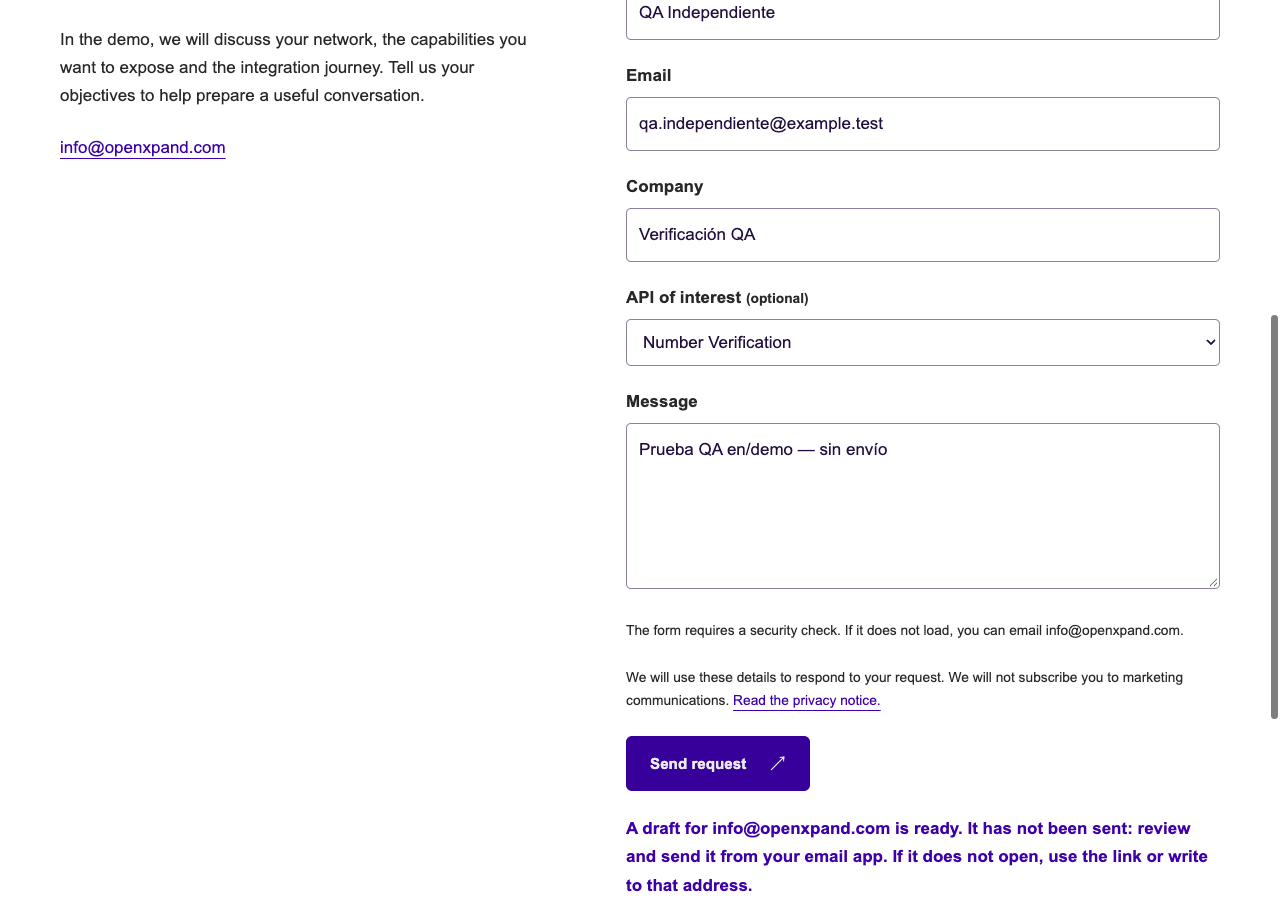
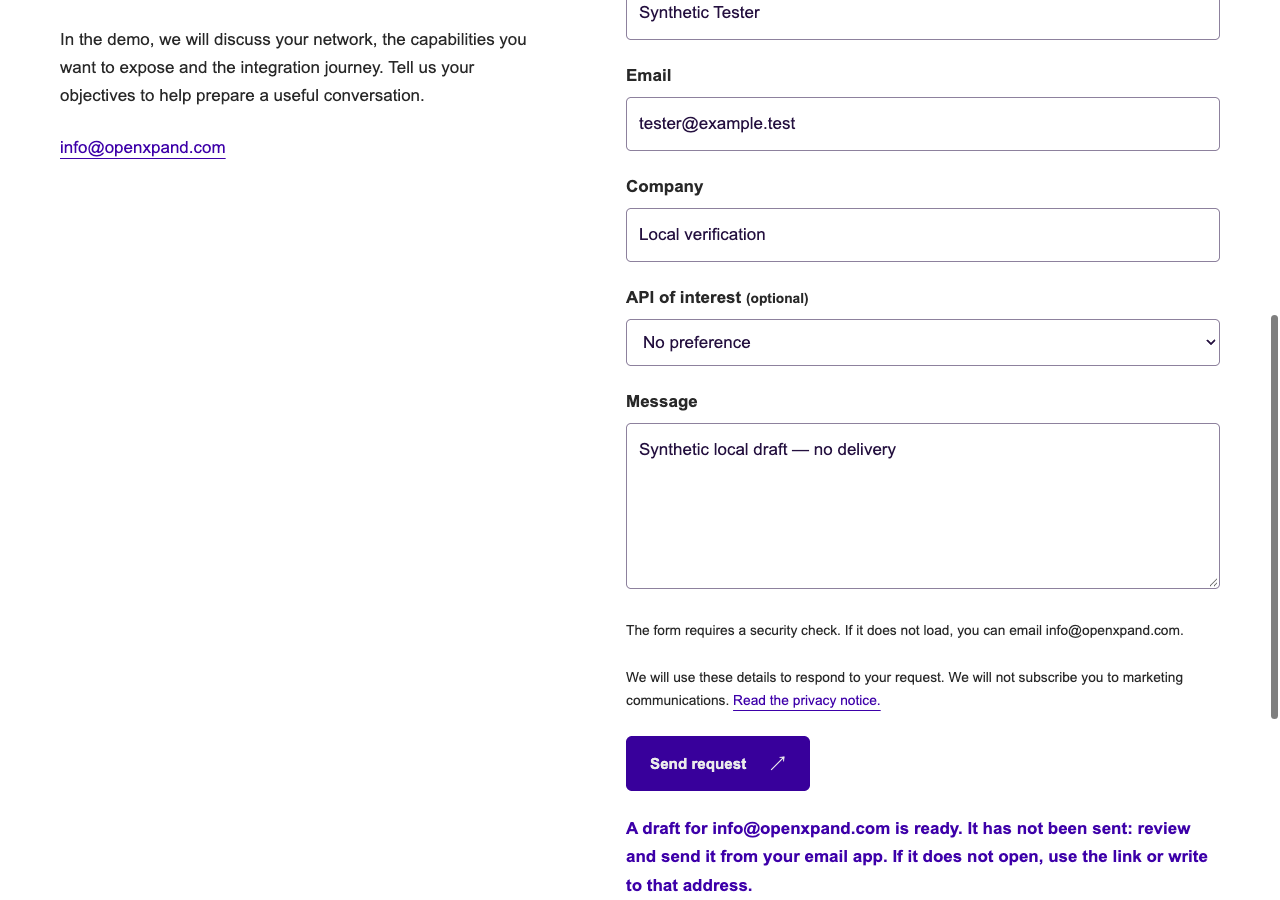
factory(Builder): Atendido el hallazgo abierto ("pasame la URL con la IP externa"): el… (#6)

diff --git a/scripts/verify-local.ts b/scripts/verify-local.ts
@@ -2,54 +2,77 @@ import assert from 'node:assert/strict';
 import fs from 'node:fs/promises';
 import path from 'node:path';
 import http from 'node:http';
-import {chromium} from '@playwright/test';
-const origin=new URL((await fs.readFile('.local/url','utf8')).trim()).origin;
+import https from 'node:https';
+import {chromium, type Browser} from '@playwright/test';
+// The preview certificate is self-signed on purpose; only this verification client trusts it.
+process.env.NODE_TLS_REJECT_UNAUTHORIZED='0';
+// Every announced URL is verified; the first one is the primary origin for the human.
+const origins=(await fs.readFile('.local/url','utf8')).trim().split('\n').map(line=>new URL(line.trim()).origin);
+const loopback=(origin:string)=>['127.0.0.1','localhost','[::1]'].includes(new URL(origin).hostname);
 let count=0;
-async function walk(dir:string):Promise<void>{for(const entry of await fs.readdir(dir,{withFileTypes:true})){
- const file=path.join(dir,entry.name);if(entry.isDirectory())await walk(file);else if(!entry.name.startsWith('_')){
+async function walk(origin:string,dir:string):Promise<void>{for(const entry of await fs.readdir(dir,{withFileTypes:true})){
+ const file=path.join(dir,entry.name);if(entry.isDirectory())await walk(origin,file);else if(!entry.name.startsWith('_')){
  const route='/'+path.relative('dist',file).replaceAll(path.sep,'/').replace(/index\.html$/,'');
  const response=await fetch(origin+route);assert.equal(response.status,200,route);assert.equal((await response.arrayBuffer()).byteLength,(await fs.stat(file)).size,route);assert.equal(response.headers.get('x-content-type-options'),'nosniff');count++;
  }
 }}
-await walk('dist');
-for(const line of (await fs.readFile('dist/_redirects','utf8')).trim().split('\n')){const [from,to,status]=line.split(/\s+/);const response=await fetch(origin+from,{redirect:'manual'});assert.equal(response.status,Number(status));assert.equal(response.headers.get('location'),to);}
-for(const locale of ['es','en','pt']){const response=await fetch(`${origin}/${locale}/missing-page/`);assert.equal(response.status,404);assert.equal(await response.text(),await fs.readFile(`dist/${locale}/404/index.html`,'utf8'));}
-assert.equal((await fetch(origin+'/missing')).status,404);
-const headers={'Content-Type':'application/json',Origin:origin};
-const post=(body:string,extra:Record<string,string>={})=>fetch(origin+'/api/contact',{method:'POST',headers:{...headers,...extra},body});
-assert.equal((await post('{}')).status,400);
-assert.equal((await post('{}',{Origin:'https://wrong.example'})).status,403);
-assert.equal((await post('{}',{'Content-Type':'text/plain'})).status,415);
-assert.equal((await fetch(origin+'/api/contact')).status,405);
-assert.equal((await post('x'.repeat(16385))).status,413);
-await new Promise<void>((resolve,reject)=>{const req=http.request(origin+'/api/contact',{method:'POST',headers},res=>{try{assert.equal(res.statusCode,413);res.resume();res.on('end',resolve);}catch(e){reject(e);}});req.on('error',reject);req.write('x'.repeat(10000));req.end('x'.repeat(10000));});
-assert.equal((await fetch(origin+'/%2e%2e%2fpackage.json')).status,403);
+async function httpSuite(origin:string):Promise<void>{
+ await walk(origin,'dist');
+ for(const line of (await fs.readFile('dist/_redirects','utf8')).trim().split('\n')){const [from,to,status]=line.split(/\s+/);const response=await fetch(origin+from,{redirect:'manual'});assert.equal(response.status,Number(status));assert.equal(response.headers.get('location'),to);}
+ for(const locale of ['es','en','pt']){const response=await fetch(`${origin}/${locale}/missing-page/`);assert.equal(response.status,404);assert.equal(await response.text(),await fs.readFile(`dist/${locale}/404/index.html`,'utf8'));}
+ assert.equal((await fetch(origin+'/missing')).status,404);
+ const headers={'Content-Type':'application/json',Origin:origin};
+ const post=(body:string,extra:Record<string,string>={})=>fetch(origin+'/api/contact',{method:'POST',headers:{...headers,...extra},body});
+ assert.equal((await post('{}')).status,400);
+ assert.equal((await post('{}',{Origin:'https://wrong.example'})).status,403);
+ assert.equal((await post('{}',{'Content-Type':'text/plain'})).status,415);
+ assert.equal((await fetch(origin+'/api/contact')).status,405);
+ assert.equal((await post('x'.repeat(16385))).status,413);
+ const client=origin.startsWith('https:')?https:http;
+ await new Promise<void>((resolve,reject)=>{const req=client.request(origin+'/api/contact',{method:'POST',headers},res=>{try{assert.equal(res.statusCode,413);res.resume();res.on('end',resolve);}catch(e){reject(e);}});req.on('error',reject);req.write('x'.repeat(10000));req.end('x'.repeat(10000));});
+ assert.equal((await fetch(origin+'/%2e%2e%2fpackage.json')).status,403);
+ // A Host outside the allow-list is refused before any file or API work (DNS rebinding).
+ const {hostname,port}=new URL(origin);
+ await new Promise<void>((resolve,reject)=>{const req=client.request({host:hostname,port,path:'/es/',headers:{Host:`rebind.example:${port}`}},res=>{try{assert.equal(res.statusCode,403,'rebind host');res.resume();res.on('end',resolve);}catch(e){reject(e);}});req.on('error',reject);req.end();});
+}
+async function browserSuite(browser:Browser,origin:string,locales:string[],intents:string[]):Promise<void>{
+ const context=await browser.newContext({ignoreHTTPSErrors:true});
+ const external:string[]=[];context.on('request',req=>{if(!req.url().startsWith(origin))external.push(req.url());});
+ try {
+  const page=await context.newPage();
+  // Inspect draft links without invoking a host mail application.
+  await page.addInitScript(()=>document.addEventListener('click',e=>{if((e.target as Element)?.closest('a')?.getAttribute('href')?.startsWith('mailto:'))e.preventDefault();},true));
+  for(const locale of locales)for(const intent of intents){
+   await page.goto(`${origin}/${locale}/contact/${intent}/`);
+   // Without a secure context crypto.randomUUID() is missing and the form script never binds.
+   assert.ok(await page.evaluate(()=>window.isSecureContext),`insecure context on ${origin}`);
+   const form=page.locator('#contact');assert.equal(await form.getAttribute('data-intent'),intent);
+   const fields={name:'Synthetic Tester',email:'tester@example.test',company:'Local verification',message:'Synthetic local draft — no delivery'};
+   for(const [key,value] of Object.entries(fields))await form.locator(`[name="${key}"]`).fill(value);
+   await form.locator('[name="api"]').selectOption({index:1});
+   const selected=await form.locator('[name="api"]').inputValue();
+   const responsePromise=page.waitForResponse(r=>r.url()===origin+'/api/contact');
+   await form.locator('button[type="submit"]').click();
+   const response=await responsePromise;assert.equal(response.status(),200);assert.deepEqual(await response.json(),{fallback:'mailto'});
+   await page.locator('#mail-fallback:not([hidden])').waitFor();
+   const href=new URL((await page.locator('#mail-fallback').getAttribute('href'))!);assert.equal(href.protocol,'mailto:');assert.equal(href.pathname,'info@openxpand.com');
+   const body=href.searchParams.get('body')!;for(const value of [...Object.values(fields),locale,selected])assert.ok(body.includes(value));
+   const copy=JSON.parse((await form.getAttribute('data-copy'))!);assert.ok(body.includes(copy.intentLabel));assert.equal(await page.locator('#status').textContent(),copy.mailDraft);assert.notEqual(copy.mailDraft,copy.success);
+   for(const [key,value] of Object.entries(fields))assert.equal(await form.locator(`[name="${key}"]`).inputValue(),value);
+  }
+  assert.deepEqual(external,[]);
+ } finally {await context.close();}
+}
+for(const origin of origins) await httpSuite(origin);
+// The loopback URL stays operational alongside the network ones.
+const local=origins.find(loopback);assert.ok(local,'no loopback origin announced');assert.equal((await fetch(local+'/es/')).status,200);
 const endpoint=process.env.FACTORY_BROWSER_CDP_URL;
 const browser=endpoint?await chromium.connectOverCDP(endpoint):await chromium.launch();
-const context=await browser.newContext();
-const external:string[]=[];context.on('request',req=>{if(!req.url().startsWith(origin))external.push(req.url());});
 try {
- const page=await context.newPage();
- // Inspect draft links without invoking a host mail application.
- await page.addInitScript(()=>document.addEventListener('click',e=>{if((e.target as Element)?.closest('a')?.getAttribute('href')?.startsWith('mailto:'))e.preventDefault();},true));
- for(const locale of ['es','en','pt'])for(const intent of ['apis','demo']){
-  await page.goto(`${origin}/${locale}/contact/${intent}/`);
-  const form=page.locator('#contact');assert.equal(await form.getAttribute('data-intent'),intent);
-  const fields={name:'Synthetic Tester',email:'tester@example.test',company:'Local verification',message:'Synthetic local draft — no delivery'};
-  for(const [key,value] of Object.entries(fields))await form.locator(`[name="${key}"]`).fill(value);
-  await form.locator('[name="api"]').selectOption({index:1});
-  const selected=await form.locator('[name="api"]').inputValue();
-  const responsePromise=page.waitForResponse(r=>r.url()===origin+'/api/contact');
-  await form.locator('button[type="submit"]').click();
-  const response=await responsePromise;assert.equal(response.status(),200);assert.deepEqual(await response.json(),{fallback:'mailto'});
-  await page.locator('#mail-fallback:not([hidden])').waitFor();
-  const href=new URL((await page.locator('#mail-fallback').getAttribute('href'))!);assert.equal(href.protocol,'mailto:');assert.equal(href.pathname,'info@openxpand.com');
-  const body=href.searchParams.get('body')!;for(const value of [...Object.values(fields),locale,selected])assert.ok(body.includes(value));
-  const copy=JSON.parse((await form.getAttribute('data-copy'))!);assert.ok(body.includes(copy.intentLabel));assert.equal(await page.locator('#status').textContent(),copy.mailDraft);assert.notEqual(copy.mailDraft,copy.success);
-  for(const [key,value] of Object.entries(fields))assert.equal(await form.locator(`[name="${key}"]`).inputValue(),value);
- }
- assert.deepEqual(external,[]);
-} finally {await context.close();if(!endpoint)await browser.close();}
-console.log(`PASS: ${count} static files, redirects, localized 404s, endpoint rejections including chunked overflow, and six real browser mailto submissions; no external browser requests.`);
+ await browserSuite(browser,origins[0],['es','en','pt'],['apis','demo']);
+ // Remote origins only need the fallback smoke; the full matrix already ran on the primary one.
+ for(const origin of origins.slice(1).filter(origin=>!loopback(origin))) await browserSuite(browser,origin,['es'],['apis']);
+} finally {if(!endpoint)await browser.close();}
+console.log(`PASS: ${count} static responses over ${origins.length} origins (${origins.join(', ')}), redirects, localized 404s, endpoint rejections including chunked overflow and disallowed Host, six browser mailto submissions on ${origins[0]} plus smoke on remote origins; no external browser requests.`);
 // End this client connection without closing the supervisor-owned browser.
 process.exit(0);

diff --git a/scripts/local-server.ts b/scripts/local-server.ts
@@ -1,7 +1,9 @@
 // Manual preview: real contact handler, with all provider credentials explicitly disabled.
 import http from 'node:http';
+import https from 'node:https';
 import fs from 'node:fs/promises';
 import path from 'node:path';
+import {execFileSync} from 'node:child_process';
 import {handleContact} from '../src/lib/contact';
 
 const root = await fs.realpath('dist');
@@ -13,9 +15,14 @@ for (const line of (await fs.readFile(path.join(root, '_headers'), 'utf8')).spli
  else {const colon=line.indexOf(':'); headerRules.at(-1)!.headers[line.slice(0,colon).trim()]=line.slice(colon+1).trim();}
 }
 const mime:Record<string,string>={'.html':'text/html; charset=utf-8','.js':'application/javascript','.css':'text/css','.svg':'image/svg+xml','.webp':'image/webp','.png':'image/png','.jpg':'image/jpeg','.ico':'image/x-icon','.woff2':'font/woff2','.xml':'application/xml','.txt':'text/plain'};
-let origin = '';
-const server=http.createServer(async(req,res)=>{
+// Bound hosts plus localhost, with the effective port: the allow-list is the trust boundary.
+let allowed=new Set<string>();
+const handler=(scheme:'http'|'https')=>async(req:http.IncomingMessage,res:http.ServerResponse)=>{
  try {
+  const host=req.headers.host;
+  // Reject unknown Host values (DNS rebinding) before serving files or the API.
+  if(!host||!allowed.has(host)){res.writeHead(403);res.end();return;}
+  const origin=`${scheme}://${host}`;
   const url=new URL(req.url!,origin);
   for(const rule of headerRules) if(rule.pattern.endsWith('*') ? url.pathname.startsWith(rule.pattern.slice(0,-1)) : url.pathname===rule.pattern) for(const [key,value] of Object.entries(rule.headers)) res.setHeader(key,value);
   res.setHeader('X-Robots-Tag','noindex, nofollow');
@@ -55,12 +62,45 @@ const server=http.createServer(async(req,res)=>{
   const body=await fs.readFile(file);
   res.writeHead(status,{'Content-Type':mime[path.extname(file)]||'application/octet-stream','Content-Length':body.length});res.end(req.method==='HEAD'?undefined:body);
  } catch {res.writeHead(400);res.end('Local request error');}
+};
+// One listener per requested host on a shared port: exactly the approved exposure, never 0.0.0.0.
+const hosts=(process.env.LOCAL_HOSTS||'127.0.0.1').split(',').map(host=>host.trim()).filter(Boolean);
+const loopback=(host:string)=>['127.0.0.1','::1','localhost'].includes(host);
+// Network hosts need TLS: over plain HTTP they are not a secure context and the form script,
+// which calls crypto.randomUUID(), never installs its submit handler. Loopback stays on HTTP.
+const scheme=(host:string):'http'|'https'=>loopback(host)?'http':'https';
+async function certificate(){
+ const key='.local/key.pem', cert='.local/cert.pem', marker='.local/cert.san';
+ const san=[...new Set([...hosts,'127.0.0.1','localhost'])].map(host=>/^[\d.]+$/.test(host)?`IP:${host}`:`DNS:${host}`).join(',');
+ await fs.mkdir('.local',{recursive:true});
+ // Reuse the certificate while the host list holds, so an accepted exception survives restarts.
+ if(await fs.readFile(marker,'utf8').catch(()=>'')!==san){
+  execFileSync('/usr/bin/openssl',['req','-x509','-newkey','rsa:2048','-nodes','-keyout',key,'-out',cert,'-days','30','-subj','/CN=OpenXpand local preview','-addext',`subjectAltName=${san}`],{stdio:'ignore'});
+  await fs.chmod(key,0o600);await fs.writeFile(marker,san);
+ }
+ return {key:await fs.readFile(key),cert:await fs.readFile(cert)};
+}
+const credentials=hosts.some(host=>!loopback(host))?await certificate():undefined;
+const listen=(server:http.Server|https.Server,host:string,port:number)=>new Promise<number>((resolve,reject)=>{
+ server.once('error',reject);
+ server.listen(port,host,()=>{server.removeListener('error',reject);resolve((server.address() as import('node:net').AddressInfo).port);});
 });
-const preferred=Number(process.env.LOCAL_PORT||4321);
-server.once('error',(error:NodeJS.ErrnoException)=>{if(error.code==='EADDRINUSE')server.listen(0,'127.0.0.1');else throw error;});
-server.on('listening',async()=>{
- const address=server.address() as import('node:net').AddressInfo;origin=`http://127.0.0.1:${address.port}`;
- await fs.mkdir('.local',{recursive:true});await fs.writeFile('.local/url',origin+'/es/\n');
- console.log(`Local preview (mail disabled): ${origin}/es/`);
-});
-server.listen(preferred,'127.0.0.1');
+let port=Number(process.env.LOCAL_PORT||4321);
+let servers:(http.Server|https.Server)[]=[];
+for(let attempt=0;;attempt++){
+ servers=hosts.map(host=>scheme(host)==='http'?http.createServer(handler('http')):https.createServer(credentials!,handler('https')));
+ try {
+  // The first bind fixes the port for the rest; port 0 asks the kernel for a free one.
+  let bound=port;
+  for(const [index,host] of hosts.entries()) bound=await listen(servers[index],host,index===0?port:bound);
+  port=bound;break;
+ } catch(error) {
+  await Promise.all(servers.map(server=>new Promise<void>(resolve=>server.close(()=>resolve()))));
+  if((error as NodeJS.ErrnoException).code!=='EADDRINUSE'||attempt===4) throw error;
+  port=0; // Never stop whatever owns the busy port; take another one.
+ }
+}
+allowed=new Set([...hosts,'localhost'].map(host=>`${host}:${port}`));
+const urls=hosts.map(host=>`${scheme(host)}://${host}:${port}/es/`);
+await fs.mkdir('.local',{recursive:true});await fs.writeFile('.local/url',urls.join('\n')+'\n');
+console.log(`Local preview (mail disabled): ${urls.join(' ')}`);

diff --git a/README.md b/README.md
@@ -101,26 +101,42 @@ con Node 22.23.2:
 ```sh
 export PATH='/Users/lucaslodeiro/.local/opt/node-v22.23.2-darwin-arm64/bin:/usr/bin':"$PATH"
 npm run local:build
-npm run local:serve          # arranca en primer plano e imprime la URL efectiva
-cat .local/url               # misma URL, desde otra terminal
+LOCAL_HOSTS=192.168.4.30,100.77.212.98,127.0.0.1 LOCAL_PORT=4330 npm run local:serve
+cat .local/url               # todas las URLs efectivas, la primaria primero
 npm run test:local           # verificación con el servidor en marcha
 ```
 
-`local:serve` ejecuta el adaptador en primer plano y escribe la URL efectiva en
-`.local/url`, excluido de Git. El puerto preferido es 4321; si está ocupado, se asigna
-otro libre sin detener procesos ajenos. El servidor escucha solo en 127.0.0.1: no
-responde en la IP de red local.
+`local:serve` ejecuta el adaptador en primer plano y escribe las URLs efectivas en
+`.local/url`, excluido de Git. El puerto por defecto sigue siendo 4321, pero en esta
+máquina lo ocupa otro proceso ajeno; se fija 4330 para que la URL entregada no cambie en
+cada reinicio. Si el puerto elegido está ocupado, se asigna otro libre para todos los
+hosts, sin detener procesos ajenos, y la URL efectiva cambia.
+
+`LOCAL_HOSTS` es la lista de direcciones a las que se enlaza, una por escucha y nunca
+`0.0.0.0`; por defecto solo `127.0.0.1`. La decisión humana de secuencia 15 pidió además
+la IP de red local (`192.168.4.30`) y la de Tailscale (`100.77.212.98`). Solo se atienden
+peticiones cuyo `Host` esté en esa lista más `localhost`, con el puerto efectivo: cualquier
+otro `Host` recibe 403 antes de tocar archivos o la API, y ese valor validado es el que
+fija el origen del `Request` y `SITE_ORIGIN`. `192.168.4.30` es una concesión DHCP: si el
+router la cambia, el arranque falla y hay que reiniciar con la dirección nueva.
+
+Los hosts de red se sirven por HTTPS con un certificado autofirmado generado al arrancar
+en `.local/` (30 días, reutilizado mientras no cambie la lista de hosts); el navegador pide
+aceptarlo una vez por dispositivo. No es cosmético: sobre HTTP simple una IP de red no es
+contexto seguro, `crypto.randomUUID()` no existe y `src/scripts/contact.ts` no llega a
+instalar su manejador, de modo que el formulario haría un envío nativo y el endpoint
+respondería 415. El loopback sigue en HTTP porque ya es contexto seguro.
 
 La supervivencia del proceso la aporta el supervisor de Factory, que arranca
-`local:serve` y conserva su ciclo de vida más allá de la ejecución del worker. Los
-workers no registran servicios del sistema (launchd u otro gestor) desde el worktree.
-Para operarlo manualmente:
+`local:serve` con esas variables y conserva su ciclo de vida más allá de la ejecución del
+worker. Los workers no registran servicios del sistema (launchd u otro gestor) desde el
+worktree. Para operarlo manualmente:
 
 ```sh
-cat .local/url                                   # URL activa
-lsof -nP -iTCP:<puerto> -sTCP:LISTEN             # PID exacto de este servicio
+cat .local/url                                   # URLs activas
+lsof -nP -iTCP:<puerto> -sTCP:LISTEN             # su PID, repetido por host enlazado
 kill <pid>                                       # detener solo ese PID, nunca otros
-npm run local:serve                              # reiniciar
+LOCAL_HOSTS=192.168.4.30,100.77.212.98,127.0.0.1 LOCAL_PORT=4330 npm run local:serve
 ```
 
 El adaptador fija vacías las tres credenciales de correo/antispam y no carga archivos
@@ -129,8 +145,11 @@ no añadir archivos `.env` al worktree para este modo. Los formularios ofrecen u
 borrador a info@openxpand.com y conservan sus valores. Hace falta un cliente de correo
 configurado y el usuario debe enviar el borrador; no hay envío automático.
 
-`test:local` verifica todos los archivos generados, redirecciones, 404 localizadas,
-rechazos HTTP y límites con Content-Length y transferencia por fragmentos. Comprueba
-los seis formularios en navegador contra el handler real y el contenido del mailto,
-sin abrir aplicaciones de correo. Usa el navegador supervisado por Factory cuando
-está disponible y cierra únicamente su propio contexto.
+`test:local` recorre todas las URLs de `.local/url`: en cada origen verifica los archivos
+generados, redirecciones, 404 localizadas, rechazos HTTP, límites con Content-Length y
+transferencia por fragmentos, y el 403 por `Host` fuera de la lista. En el origen primario
+comprueba los seis formularios en navegador contra el handler real y el contenido del
+mailto, con un envío de humo en los demás orígenes de red, sin abrir aplicaciones de
+correo. Solo ese cliente de verificación acepta el certificado autofirmado. Usa el
+navegador supervisado por Factory cuando está disponible y cierra únicamente su propio
+contexto.
